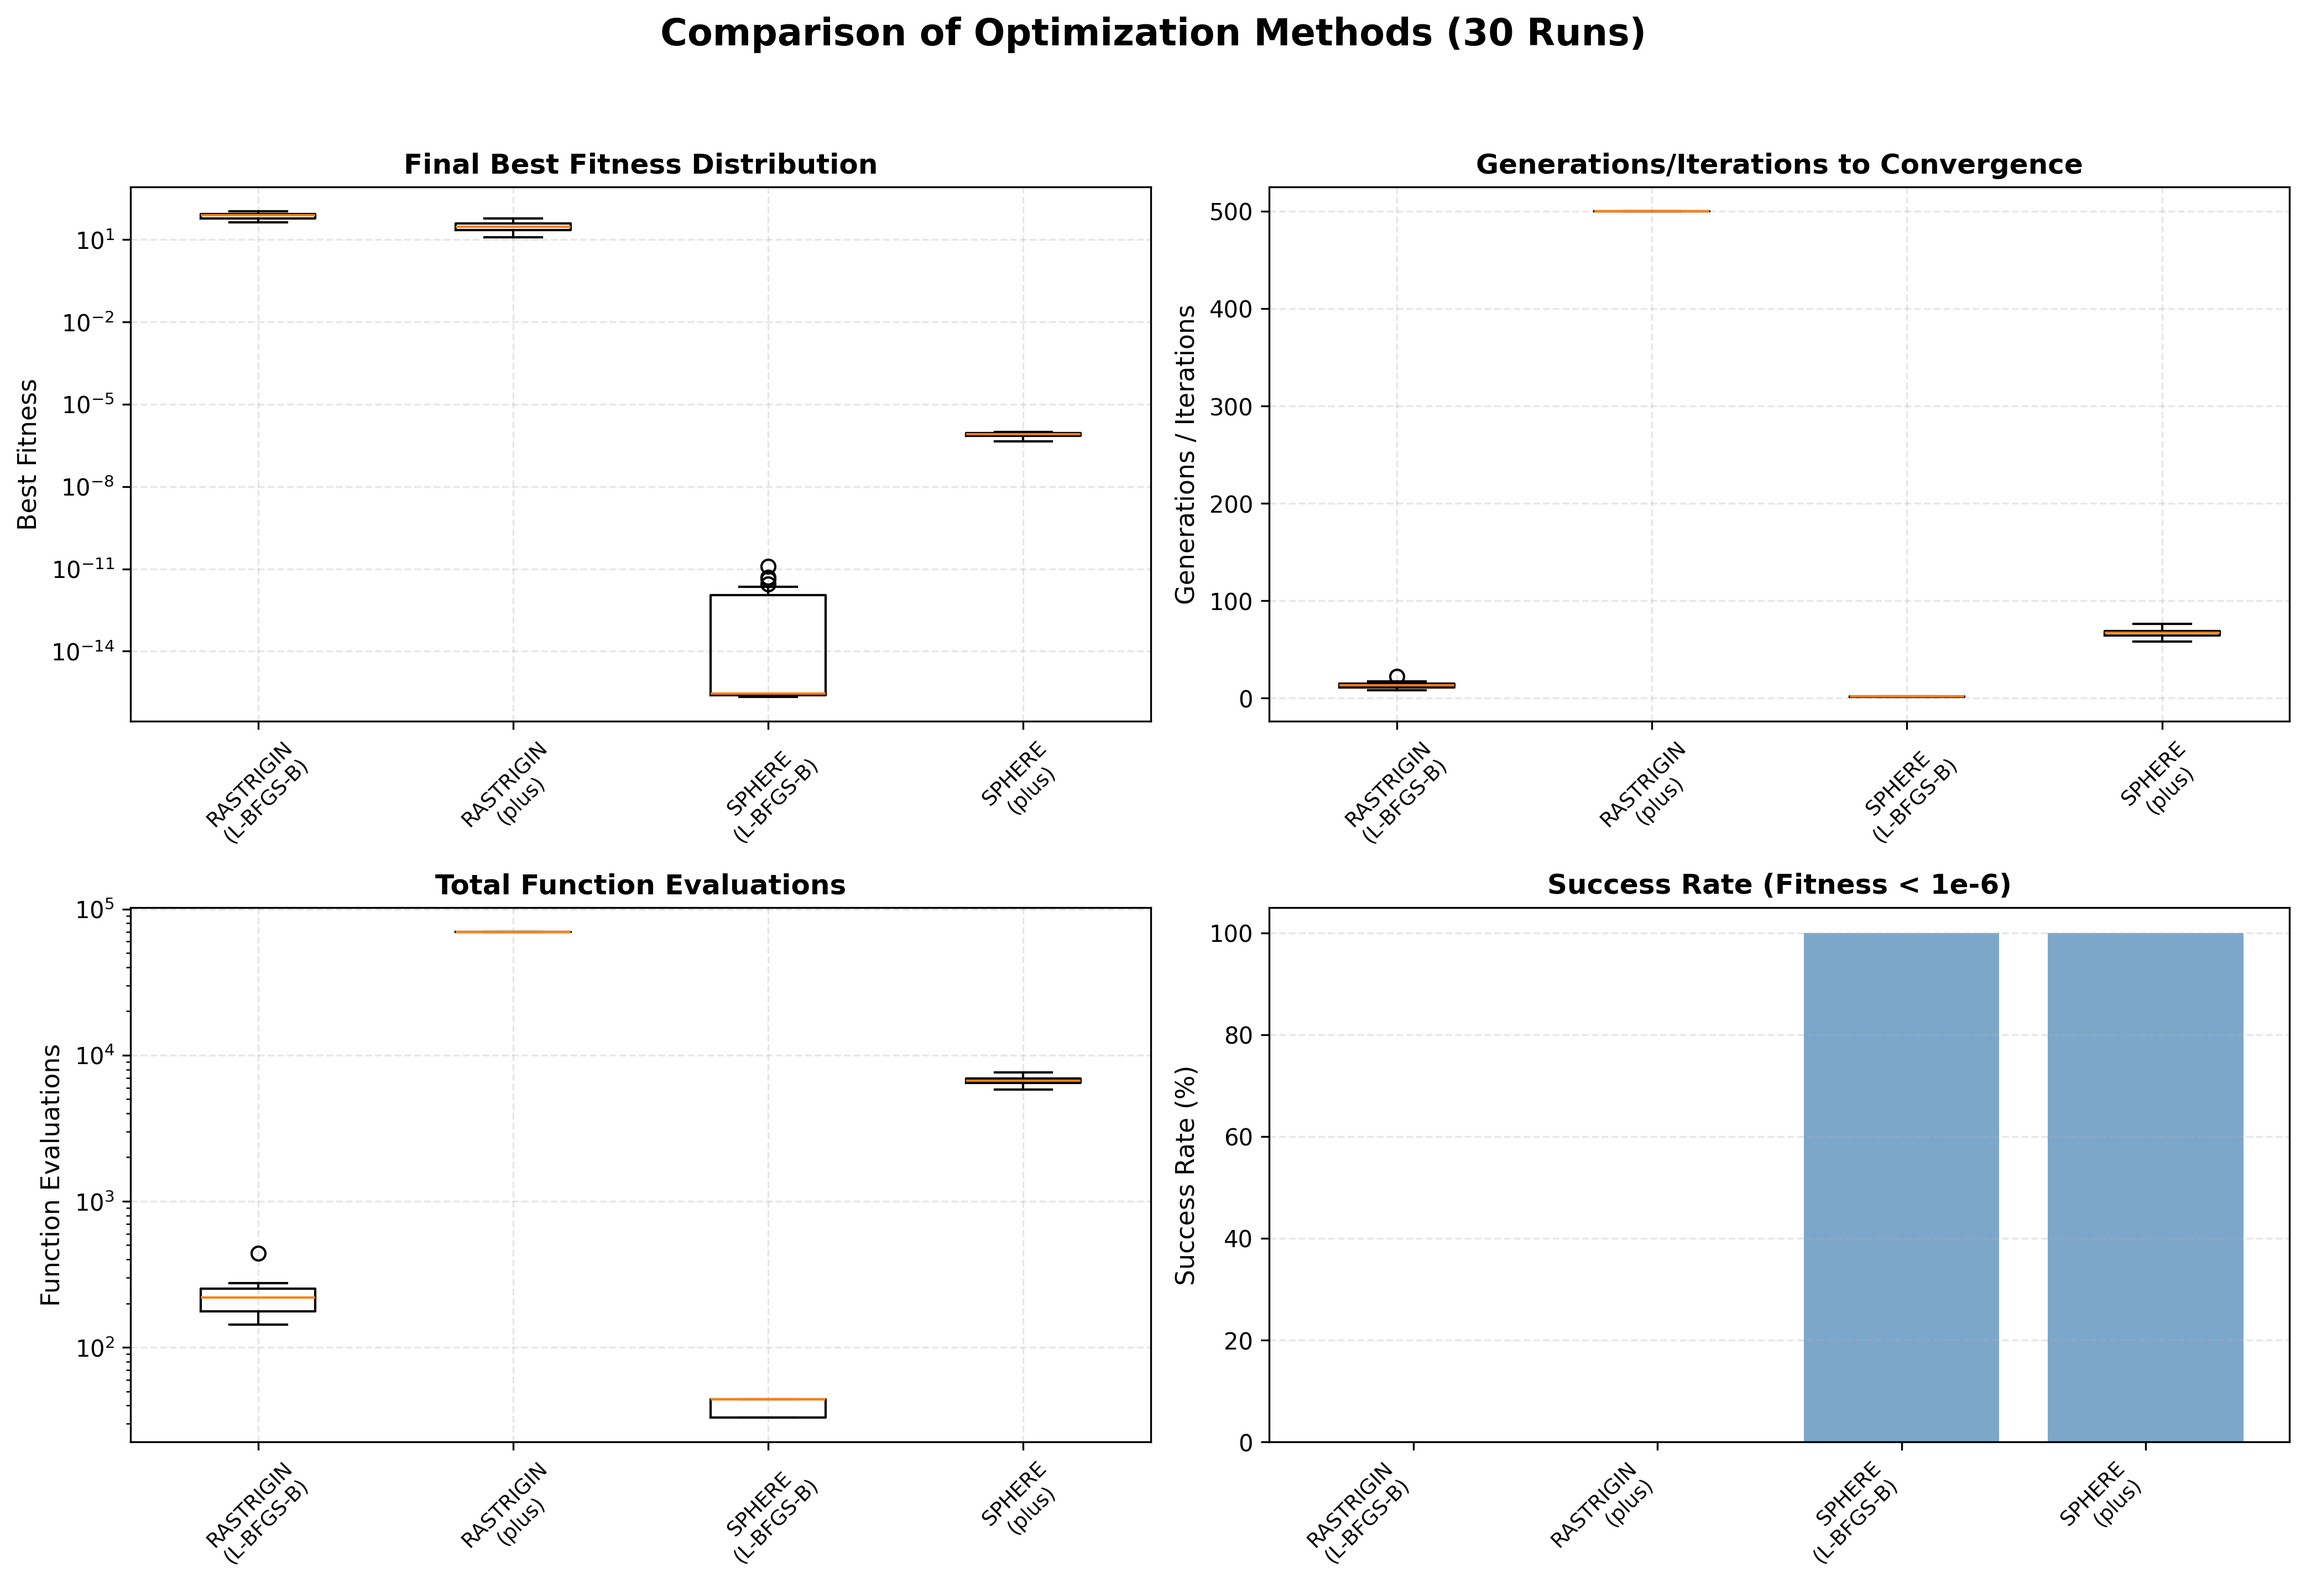
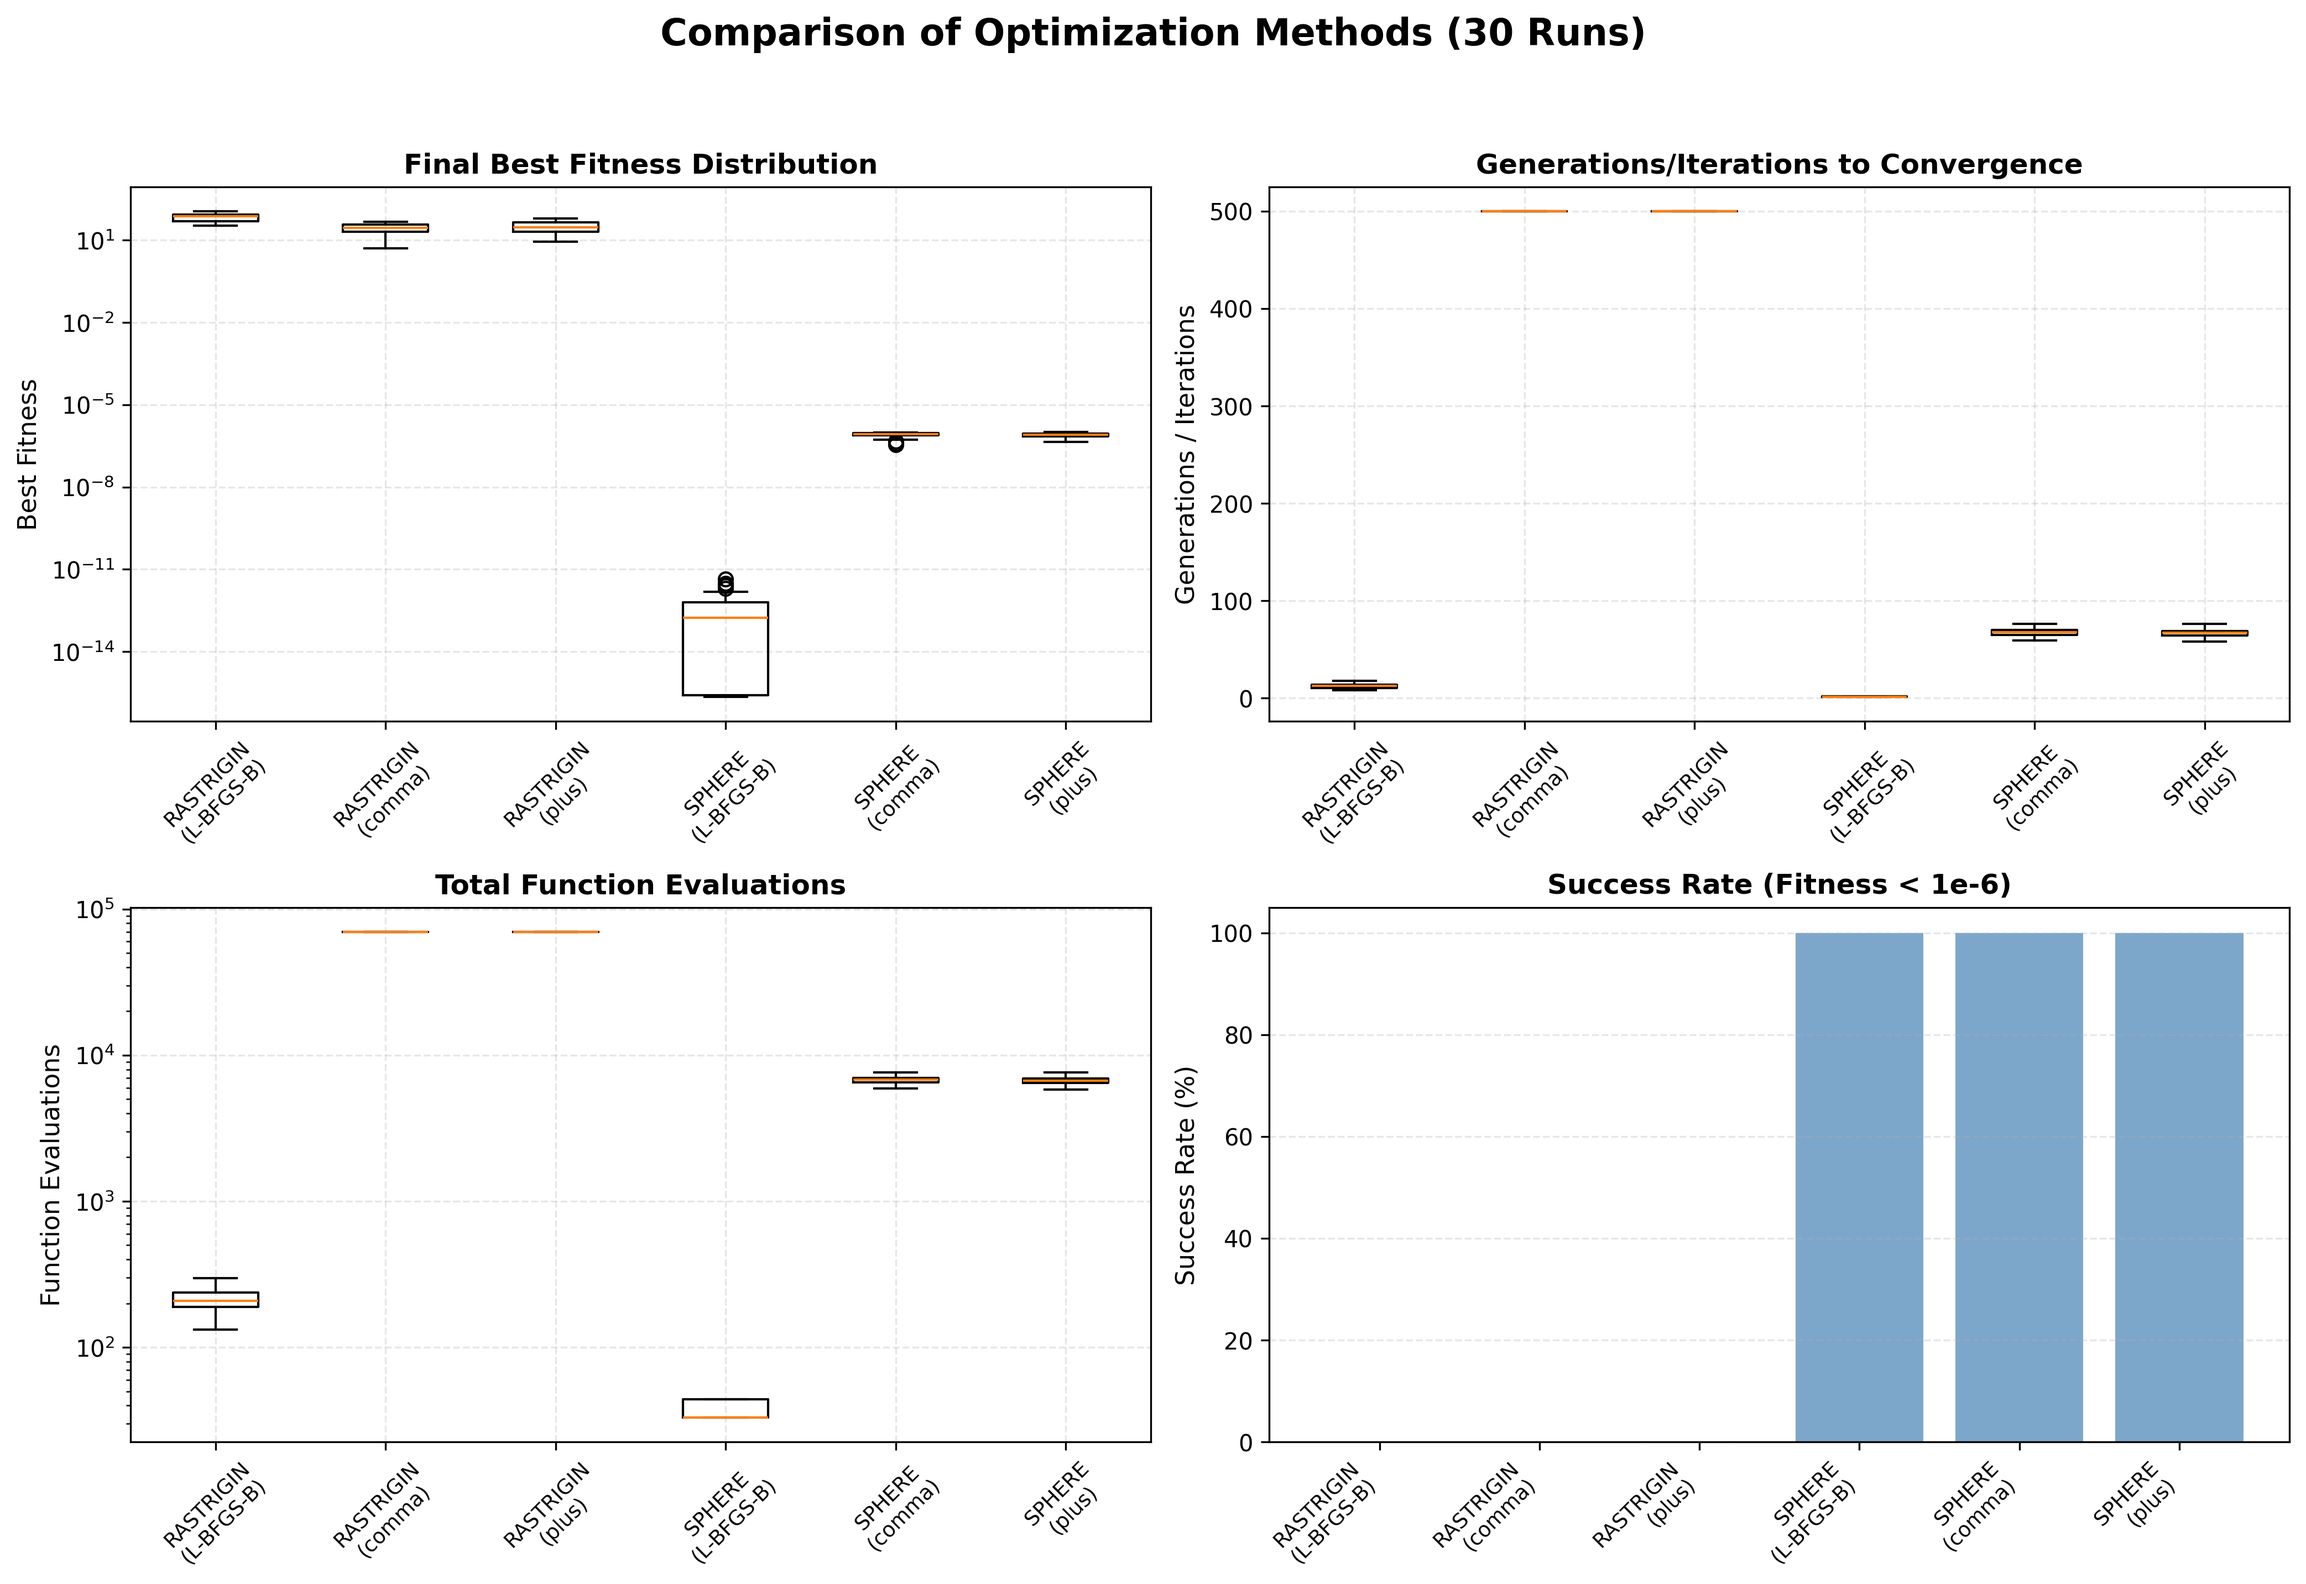
modified:   .DS_Store 	modified:   main.py 	modified:   outputs/comparison_boxplots.png 	modified:   outputs/convergence_plots.png 	modified:   outputs/results.csv 	modified:   outputs/summary_statistics.csv

diff --git a/main.py b/main.py
@@ -98,8 +98,13 @@ def main():
     
     # --- Define experiments ---
     es_experiments = [
+        # Sphere (Easy Function) - Elitist vs. Non-Elitist
         {'func': 'sphere', 'dim': 10, 'mu': 15, 'lambda': 100, 'strategy': 'plus'},
+        {'func': 'sphere', 'dim': 10, 'mu': 15, 'lambda': 100, 'strategy': 'comma'},
+        
+        # Rastrigin (Difficult Function) - Elitist vs. Non-Elitist
         {'func': 'rastrigin', 'dim': 10, 'mu': 20, 'lambda': 140, 'strategy': 'plus'},
+        {'func': 'rastrigin', 'dim': 10, 'mu': 20, 'lambda': 140, 'strategy': 'comma'},
     ]
     
     baseline_experiments = [
@@ -175,6 +180,10 @@ def main():
         'converged': ['sum', 'mean']
     }).round(6)
     
+    pd.set_option('display.max_rows', None)
+    pd.set_option('display.max_columns', None)
+    pd.set_option('display.width', 1000)
+
     print(summary)
     summary_path = os.path.join(output_dir, 'summary_statistics.csv')
     summary.to_csv(summary_path)
